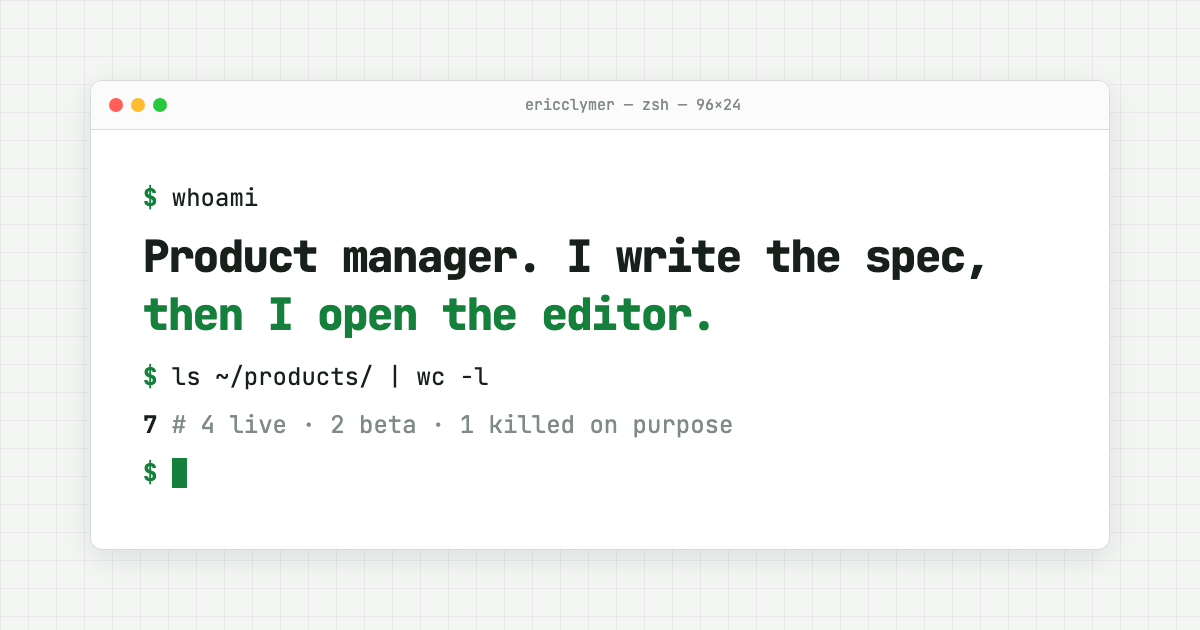
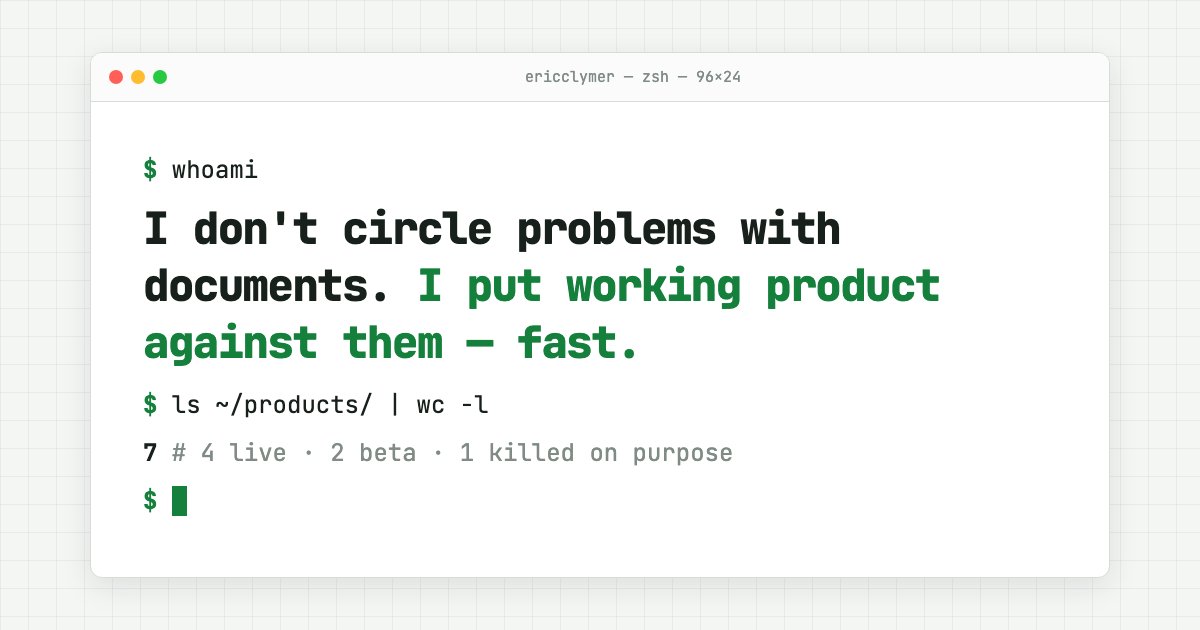
Per-project CRT tints, pic+pane cards, speed-first copy
Every card: one primary visual (mobile for Remy/Hermes/SavvyCash, web
for the rest) beside a goal/stack/outcome DOS pane. CRT backgrounds
tinted per product brand with scanlines, vignette, and bezel. Hero and
man page reframed: answer problems with working product fast, mentor
others to do the same. BlockRate framed around early signal-reading,
not tech sophistication.

diff --git a/index.html b/index.html
@@ -4,9 +4,9 @@
   <meta charset="UTF-8">
   <meta name="viewport" content="width=device-width, initial-scale=1.0">
   <title>Eric Clymer — PM Who Ships</title>
-  <meta name="description" content="Seven products, spec'd and shipped by the same person: iOS apps, Chrome extensions, SaaS. Two with revenue. One killed on purpose.">
+  <meta name="description" content="Seven real products, shipped fast: iOS apps, Chrome extensions, SaaS. Two with revenue. One killed on purpose. Working product beats another meeting.">
   <meta property="og:title" content="Eric Clymer — PM Who Ships">
-  <meta property="og:description" content="Seven products, spec'd and shipped by the same person. Two with revenue. One killed on purpose.">
+  <meta property="og:description" content="Seven real products, shipped fast. Two with revenue. One killed on purpose.">
   <meta property="og:type" content="website">
   <meta property="og:image" content="https://esclyme1981.github.io/PortfolioSite/assets/og-image.png">
   <meta name="twitter:card" content="summary_large_image">
@@ -34,12 +34,12 @@
       <div class="term term-flex">
         <div class="term-text">
           <span class="ln prompt"><span class="typed t1">whoami</span></span>
-          <span class="ln big fade f1">Product manager. I write the spec, <em>then I open the editor.</em></span>
+          <span class="ln big fade f1">I don't circle problems with documents. <em>I put working product against them — fast.</em></span>
           <span class="ln prompt"><span class="typed t2">cat credentials.txt</span></span>
           <span class="ln out fade f2">Group PM @ <strong>SimplePractice</strong> — mobile + rapid prototyping across all of Product · founded <strong>Timebomb</strong> (team of 15, 5 yrs) · shipped a <strong>#1 paid App&nbsp;Store app</strong></span>
           <span class="ln prompt"><span class="typed t3">ls ~/products/ | wc -l</span></span>
           <span class="ln out fade f3"><strong>7</strong></span>
-          <span class="ln out fade f4"><em># 4 live · 2 in beta · 1 killed on purpose</em> — every one spec'd, built, and shipped by the same person.</span>
+          <span class="ln out fade f4"><em># 4 live · 2 in beta · 1 killed on purpose</em> — questions answered with product, not meetings.</span>
           <span class="ln prompt fade f4"><span class="cursor"></span></span>
         </div>
         <figure class="headshot fade f1">
@@ -61,15 +61,21 @@
 
       <!-- 01 send-remy -->
       <a class="proj win reveal" href="projects/send-remy.html">
-        <span class="win-bar"><span class="dots"><i></i><i></i><i></i></span><span class="title"><span class="idx">01</span> · send-remy — iOS + web</span><span class="spacer"></span></span>
-        <span class="collage">
-          <img class="shot-site" src="assets/screenshots/sendremy-tall.jpg" alt="Send Remy landing page — full site" loading="lazy">
-          <img class="shot-phone" src="assets/screenshots/remy-app-01.jpg" alt="Send Remy app — agent debrief" loading="lazy">
+        <span class="win-bar"><span class="dots"><i></i><i></i><i></i></span><span class="title"><span class="idx">01</span> · send-remy — iOS</span><span class="spacer"></span></span>
+        <span class="collage phone-primary crt-rust">
+          <img class="shot-phone" src="assets/screenshots/remy-app-01.jpg" alt="Send Remy app — brief your Remy" loading="lazy">
+          <span class="pane">
+            <span class="ln prompt">remy --brief</span>
+            <span class="ln cmt"># goal: kill the blank-slate first chat</span>
+            <span class="ln ok">stack: swiftui · supabase · claude api</span>
+            <span class="ln ok">agents run the first 20 messages</span>
+            <span class="ln ok">debrief: score · highlights · tensions</span>
+            <span class="ln hl">→ live on the app store · revenue</span>
+          </span>
         </span>
         <span class="proj-meta">
           <span class="name-row"><h3>Send Remy</h3><span class="tag tag-live">LIVE · REVENUE</span></span>
           <p class="hook">Your AI agent runs the first twenty messages. You only meet the ones worth meeting.</p>
-          <span class="flags">--swiftui --supabase --claude-api --app-store</span>
           <span class="open">open sendremy.com</span>
         </span>
       </a>
@@ -77,14 +83,20 @@
       <!-- 02 hermes -->
       <a class="proj win reveal" href="projects/hermes.html">
         <span class="win-bar"><span class="dots"><i></i><i></i><i></i></span><span class="title"><span class="idx">02</span> · hermes — custom iOS client</span><span class="spacer"></span></span>
-        <span class="collage phones-only">
-          <img class="shot-phone second" src="assets/screenshots/hermes-triage.jpg" alt="Hermes — AI email triage" loading="lazy">
+        <span class="collage phone-primary">
           <img class="shot-phone" src="assets/screenshots/hermes-briefing.jpg" alt="Hermes — daily briefing" loading="lazy">
+          <span class="pane">
+            <span class="ln prompt">hermes --morning</span>
+            <span class="ln cmt"># goal: run 7 products from a pocket</span>
+            <span class="ln ok">stack: swift 6 · gmail api · agents</span>
+            <span class="ln ok">8am briefing · triage · monitoring</span>
+            <span class="ln ok">agents draft, I approve</span>
+            <span class="ln hl">→ private beta · my daily driver</span>
+          </span>
         </span>
         <span class="proj-meta">
           <span class="name-row"><h3>Custom Hermes iOS Client</h3><span class="tag tag-beta">BETA</span></span>
           <p class="hook">One iOS client for my whole agent stack — daily briefing, email triage, product monitoring.</p>
-          <span class="flags">--swift6 --gmail-api --agents --supabase</span>
           <span class="open">./hermes --briefing</span>
         </span>
       </a>
@@ -92,14 +104,20 @@
       <!-- 03 vibecaddy -->
       <a class="proj win reveal" href="projects/vibecaddy.html">
         <span class="win-bar"><span class="dots"><i></i><i></i><i></i></span><span class="title"><span class="idx">03</span> · vibecaddy — chrome extension</span><span class="spacer"></span></span>
-        <span class="collage">
+        <span class="collage crt-green">
           <img class="shot-site" src="assets/screenshots/vibecaddy-tall.jpg" alt="VibeCaddy landing page — full site" loading="lazy">
-          <img class="shot-phone" src="assets/screenshots/vibecaddy-mobile.jpg" alt="VibeCaddy mobile" loading="lazy">
+          <span class="pane">
+            <span class="ln prompt">vibecaddy --inject</span>
+            <span class="ln cmt"># goal: never re-explain your project</span>
+            <span class="ln ok">stack: chrome ext · supabase · claude</span>
+            <span class="ln ok">context injected into every prompt</span>
+            <span class="ln ok">nightly eval agent self-tunes</span>
+            <span class="ln hl">→ live in the chrome web store</span>
+          </span>
         </span>
         <span class="proj-meta">
           <span class="name-row"><h3>VibeCaddy</h3><span class="tag tag-live">LIVE</span></span>
           <p class="hook">Injects your project's context into every AI prompt. Stop re-explaining your stack to ChatGPT.</p>
-          <span class="flags">--chrome-ext --supabase --claude-api --eval-agent</span>
           <span class="open">open vibecaddy.ai</span>
         </span>
       </a>
@@ -107,14 +125,20 @@
       <!-- 04 vibecs -->
       <a class="proj win reveal" href="projects/vibecs.html">
         <span class="win-bar"><span class="dots"><i></i><i></i><i></i></span><span class="title"><span class="idx">04</span> · vibecs — web saas</span><span class="spacer"></span></span>
-        <span class="collage">
+        <span class="collage crt-orange">
           <img class="shot-site" src="assets/screenshots/vibecs-tall.jpg" alt="VibeCS landing page — full site" loading="lazy">
-          <img class="shot-phone" src="assets/screenshots/vibecs-mobile.jpg" alt="VibeCS mobile" loading="lazy">
+          <span class="pane">
+            <span class="ln prompt">vibecs --deploy</span>
+            <span class="ln cmt"># goal: support agent, zero setup</span>
+            <span class="ln ok">stack: crawler · edge fns · claude</span>
+            <span class="ln ok">paste url → live in 3 minutes</span>
+            <span class="ln ok">closed-loop: can't hallucinate</span>
+            <span class="ln hl">→ live · paying customers</span>
+          </span>
         </span>
         <span class="proj-meta">
           <span class="name-row"><h3>VibeCS</h3><span class="tag tag-live">LIVE · REVENUE</span></span>
           <p class="hook">Paste your URL → AI support agent live in 3 minutes. Closed-loop, so it can't hallucinate. Paying customers.</p>
-          <span class="flags">--crawler --edge-functions --claude-api</span>
           <span class="open">open cs-vibe.com</span>
         </span>
       </a>
@@ -122,22 +146,20 @@
       <!-- 05 blockrate -->
       <a class="proj win reveal" href="projects/blockrate.html">
         <span class="win-bar"><span class="dots"><i></i><i></i><i></i></span><span class="title"><span class="idx">05</span> · blockrate — post-mortem</span><span class="spacer"></span></span>
-        <span class="collage">
+        <span class="collage crt-pine">
           <img class="shot-site" src="assets/screenshots/blockrate-web.jpg" alt="BlockRate landing page — group-buying for home services" loading="lazy">
           <span class="pane">
-            <span class="ln cmt"># blockrate — the post-mortem</span>
-            <span class="ln ok">47 neighborhoods · paying customer</span>
-            <span class="ln ok">stripe connect · tiered repricing</span>
-            <span class="ln err"><span class="hl">wrong customer.</span> hunters churn.</span>
-            <span class="ln del">- kill --reason "bad business"</span>
-            <span class="ln add">+ lesson applied everywhere after</span>
-            <span class="ln cmt">process terminated — exit 137</span>
+            <span class="ln prompt">blockrate --autopsy</span>
+            <span class="ln cmt"># goal: group-buy home services</span>
+            <span class="ln ok">stripe connect · supabase</span>
+            <span class="ln ok">47 hoods · real revenue</span>
+            <span class="ln err">wrong customer — read early</span>
+            <span class="ln hl">→ killed on purpose · 137</span>
           </span>
         </span>
         <span class="proj-meta">
           <span class="name-row"><h3>BlockRate</h3><span class="tag tag-killed">KILLED</span><span class="tag tag-live">REVENUE</span></span>
-          <p class="hook">My most sophisticated build. I shut it down anyway — the customer was wrong, and no amount of code fixes that.</p>
-          <span class="flags">--stripe-connect --supabase --13-edge-functions</span>
+          <p class="hook">Real marketplace, real revenue — still the wrong business. Reading that signal in months, not years, is the skill.</p>
           <span class="open">cat post-mortem.md</span>
         </span>
       </a>
@@ -145,22 +167,20 @@
       <!-- 06 savvycash -->
       <a class="proj win reveal" href="projects/savvycash.html">
         <span class="win-bar"><span class="dots"><i></i><i></i><i></i></span><span class="title"><span class="idx">06</span> · savvycash — iOS fintech</span><span class="spacer"></span></span>
-        <span class="collage">
-          <img class="shot-site" src="assets/screenshots/savvycash-web.jpg" alt="SavvyCash — Savi recommends a sweep to savings" loading="lazy">
+        <span class="collage phone-primary crt-azure">
+          <img class="shot-phone" src="assets/screenshots/savvycash-web.jpg" alt="SavvyCash — Savi recommends a sweep to savings" loading="lazy">
           <span class="pane">
-            <span class="ln prompt">savi engine --scan</span>
-            <span class="ln ok">plaid linked · production</span>
-            <span class="ln ok">21 patterns · 12 bills predicted</span>
-            <span class="ln hl">→ sweep $35,631.50 → savings</span>
-            <span class="ln hl">→ 4.4% APY instead of 0%</span>
-            <span class="ln cmt"># proposes only. never moves</span>
-            <span class="ln cmt"># money itself. your trigger.</span>
+            <span class="ln prompt">savi --propose</span>
+            <span class="ln cmt"># goal: wake up idle cash</span>
+            <span class="ln ok">swiftui · plaid · edge fns</span>
+            <span class="ln ok">21 patterns · 12 bills</span>
+            <span class="ln ok">you hold the only trigger</span>
+            <span class="ln hl">→ beta · unreleased</span>
           </span>
         </span>
         <span class="proj-meta">
           <span class="name-row"><h3>SavvyCash</h3><span class="tag tag-beta">BETA</span></span>
           <p class="hook">Finds the cash sleeping in your checking account and proposes the sweep. You hold the only trigger.</p>
-          <span class="flags">--swiftui --plaid --edge-functions</span>
           <span class="open">./savvycash --propose</span>
         </span>
       </a>
@@ -168,14 +188,20 @@
       <!-- 07 norwalk -->
       <a class="proj win reveal" href="projects/norwalk-rental.html">
         <span class="win-bar"><span class="dots"><i></i><i></i><i></i></span><span class="title"><span class="idx">07</span> · norwalk-lane — direct booking</span><span class="spacer"></span></span>
-        <span class="collage">
+        <span class="collage crt-amber">
           <img class="shot-site" src="assets/screenshots/norwalklane-tall.jpg" alt="Norwalk Lane booking site — full site" loading="lazy">
-          <img class="shot-phone" src="assets/screenshots/norwalklane-mobile.jpg" alt="Norwalk Lane mobile" loading="lazy">
+          <span class="pane">
+            <span class="ln prompt">norwalk --book-direct</span>
+            <span class="ln cmt"># goal: own the guest relationship</span>
+            <span class="ln ok">stack: static site · pro photography</span>
+            <span class="ln ok">no platform fee, no middleman</span>
+            <span class="ln ok">returning guests email me</span>
+            <span class="ln hl">→ live · taking bookings</span>
+          </span>
         </span>
         <span class="proj-meta">
           <span class="name-row"><h3>Norwalk Lane</h3><span class="tag tag-live">LIVE</span></span>
           <p class="hook">Direct-booking site for one premium rental. The platform middleman is a fee, not a feature.</p>
-          <span class="flags">--static --direct-booking --pro-photography</span>
           <span class="open">open norwalklane.com</span>
         </span>
       </a>
@@ -191,12 +217,12 @@
       <div class="win-bar"><span class="dots"><i></i><i></i><i></i></span><span class="title">ERIC(1) — General Commands Manual</span><span class="spacer"></span></div>
       <div class="man">
         <h3>NAME</h3>
-        <p><strong>eric</strong> — product manager who ships his own specs</p>
+        <p><strong>eric</strong> — product manager who answers questions with working product</p>
         <h3>SYNOPSIS</h3>
-        <p class="refs">eric [--spec] [--build] [--ship] [--kill-when-wrong]</p>
+        <p class="refs">eric [--prototype] [--ship-fast] [--mentor] [--kill-when-wrong]</p>
         <h3>DESCRIPTION</h3>
-        <p>Most PMs hand off. I don't. Every product in this directory — iOS apps, a Chrome extension, SaaS — was spec'd, built, and shipped by the same pair of hands. The through-line is one opinion held strongly: <code>software should show up already knowing the context</code>. Agents that do the getting-to-know-you before a first date. A support bot whose knowledge base is your own website. Prompts that arrive pre-loaded with your stack. No blank slates, anywhere.</p>
-        <p>The flag I'm proudest of is <code>--kill-when-wrong</code>: BlockRate was the best engineering in this list and the worst business. It's dead because I read the data and pulled the plug. That's a PM skill you can't fake in a slide deck.</p>
+        <p>Documents describe problems. Product answers them. Everything in this directory exists because building the real thing quickly is the fastest way to find out what's true — about the user, the market, and the idea. It's the same job during the day: at SimplePractice I lead mobile and rapid prototyping across all of Product, where most of the work is getting real product in front of real people in days — and <strong>mentoring PMs and teams to do the same</strong>: reach for a build, not another meeting.</p>
+        <p>The flag that took longest to earn is <code>--kill-when-wrong</code>. BlockRate wasn't precious technology — it was a working marketplace with real revenue that was wrong underneath: wrong customer, wrong sector. Recognizing "not right" in months instead of years, and acting on it, is what experience actually looks like. Speed matters on the way out, too.</p>
         <h3>HISTORY</h3>
         <p>Group Product Manager at SimplePractice — leading both mobile and rapid prototyping across all of Product. Founded Timebomb — a 15-person mobile social startup, 5 years. Shipped a #1 paid App Store app internationally.</p>
         <h3>SEE ALSO</h3>

diff --git a/css/style.css b/css/style.css
@@ -281,14 +281,18 @@ code, .mono { font-family: var(--mono); }
 .proj:hover { transform: translateY(-3px); box-shadow: var(--shadow-lift); }
 .proj .win-bar .title .idx { color: var(--green); font-weight: 700; }
 
-/* collage area — full site + mobile, side by side, no overlap.
-   Background is a DOS-blue CRT: scanlines + phosphor vignette, no grid. */
+/* collage area — one primary visual + a DOS pane, side by side.
+   Background is a retro CRT tinted per project: phosphor glow,
+   scanlines, corner vignette, and a bezel inset. */
 .collage {
+  --crt-hi: #1a3ec4;   /* phosphor bloom (top) */
+  --crt-mid: #10289c;  /* tube body */
+  --crt-lo: #081a70;   /* corners / depth */
   position: relative;
   aspect-ratio: 16 / 9.6;
   background:
-    repeating-linear-gradient(0deg, rgba(255,255,255,0.055) 0 1px, transparent 1px 3px),
-    radial-gradient(120% 90% at 50% 8%, #1a3ec4 0%, #10289c 48%, #081a70 100%);
+    repeating-linear-gradient(0deg, rgba(255,255,255,0.06) 0 1px, transparent 1px 3px),
+    radial-gradient(115% 105% at 50% 0%, var(--crt-hi) 0%, var(--crt-mid) 46%, var(--crt-lo) 100%);
   overflow: hidden;
   border-bottom: 1px solid var(--border);
   display: flex;
@@ -297,15 +301,33 @@ code, .mono { font-family: var(--mono); }
   gap: clamp(0.8rem, 3%, 1.4rem);
   padding: 4.5% 4%;
 }
-/* faint CRT glow along the top edge */
+/* CRT glass: top glow */
 .collage::before {
   content: '';
   position: absolute;
   inset: 0 0 auto 0;
-  height: 18%;
-  background: linear-gradient(rgba(255,255,255,0.10), transparent);
+  height: 20%;
+  background: linear-gradient(rgba(255,255,255,0.12), transparent);
   pointer-events: none;
 }
+/* CRT tube: corner vignette + bezel inset shadow */
+.collage::after {
+  content: '';
+  position: absolute;
+  inset: 0;
+  background: radial-gradient(140% 125% at 50% 45%, transparent 58%, rgba(0,0,0,0.38) 100%);
+  box-shadow: inset 0 0 22px rgba(0,0,0,0.45);
+  pointer-events: none;
+}
+.collage > * { position: relative; z-index: 1; }
+
+/* per-project phosphor tints */
+.crt-rust   { --crt-hi: #e05c2b; --crt-mid: #a63c15; --crt-lo: #571c07; }  /* send remy */
+.crt-green  { --crt-hi: #1ba452; --crt-mid: #0d7132; --crt-lo: #063a19; }  /* vibecaddy */
+.crt-orange { --crt-hi: #ff7a1a; --crt-mid: #c2410c; --crt-lo: #6b1f03; }  /* vibecs */
+.crt-pine   { --crt-hi: #2c7a4b; --crt-mid: #17472e; --crt-lo: #082416; }  /* blockrate */
+.crt-azure  { --crt-hi: #3f86f8; --crt-mid: #1d4ed8; --crt-lo: #12277a; }  /* savvycash */
+.crt-amber  { --crt-hi: #c98434; --crt-mid: #8a5215; --crt-lo: #452806; }  /* norwalk */
 /* the zoomed-out full page — whole capture visible, scaled by height.
    max-width + cover keeps landscape shots from starving their neighbor. */
 .collage .shot-site {
@@ -330,10 +352,15 @@ code, .mono { font-family: var(--mono); }
 .proj:hover .collage .shot-phone { transform: rotate(0deg) translateY(-3px); }
 .collage .shot-phone.second { transform: rotate(-1.8deg); }
 .proj:hover .collage .shot-phone.second { transform: rotate(0deg) translateY(-3px); }
-/* two phones, no desktop */
-.collage.phones-only .shot-phone { height: 92%; }
+/* single primary phone beside a pane — straight, dominant */
+.collage.phone-primary .shot-phone {
+  height: 94%;
+  transform: none;
+}
+.proj:hover .collage.phone-primary .shot-phone { transform: translateY(-3px); }
 
-/* terminal-pane collage — DOS screen text straight on the blue */
+/* terminal-pane — DOS screen text straight on the tube.
+   Neutral phosphor palette; readable on every tint. */
 .collage .pane {
   flex: 1;
   align-self: center;
@@ -341,9 +368,9 @@ code, .mono { font-family: var(--mono); }
   padding: 0.4rem 0.2rem;
   font-family: var(--mono);
   font-size: clamp(0.60rem, 1.35vw, 0.72rem);
-  line-height: 1.9;
-  color: #c9d4ff;
-  text-shadow: 0 0 6px rgba(120, 150, 255, 0.35);
+  line-height: 1.95;
+  color: rgba(255, 255, 255, 0.88);
+  text-shadow: 0 0 7px rgba(255, 255, 255, 0.28);
 }
 .pane .ln {
   display: block;
@@ -351,13 +378,13 @@ code, .mono { font-family: var(--mono); }
   overflow: hidden;
   text-overflow: ellipsis;
 }
-.pane .ok::before   { content: '✓ '; color: #7dff9e; font-weight: 700; }
-.pane .err::before  { content: '✗ '; color: #ff8f8f; font-weight: 700; }
-.pane .add          { color: #9dffb4; }
-.pane .del          { color: #ffa3a3; }
-.pane .cmt          { color: #7f93e6; }
+.pane .ok::before   { content: '✓ '; color: #a5ffbd; font-weight: 700; }
+.pane .err::before  { content: '✗ '; color: #ffc2c2; font-weight: 700; }
+.pane .add          { color: #b8ffca; }
+.pane .del          { color: #ffc9c9; }
+.pane .cmt          { color: rgba(255, 255, 255, 0.55); }
 .pane .hl           { color: #ffffff; font-weight: 700; }
-.pane .prompt::before { content: '$ '; color: #7dff9e; font-weight: 700; }
+.pane .prompt::before { content: '$ '; color: #a5ffbd; font-weight: 700; }
 
 /* project meta */
 .proj-meta { padding: 0.9rem 1rem 1rem; display: grid; gap: 0.45rem; background: var(--surface); }

diff --git a/projects/blockrate.html b/projects/blockrate.html
@@ -4,9 +4,9 @@
   <meta charset="UTF-8">
   <meta name="viewport" content="width=device-width, initial-scale=1.0">
   <title>blockrate — Eric Clymer</title>
-  <meta name="description" content="A group-buying marketplace for home services in Austin. My most sophisticated build — killed on purpose. The post-mortem.">
+  <meta name="description" content="A group-buying marketplace for home services in Austin. Real revenue, wrong business — killed on purpose, fast. The post-mortem.">
   <meta property="og:title" content="blockrate — Eric Clymer">
-  <meta property="og:description" content="My most sophisticated build. Killed on purpose. The post-mortem.">
+  <meta property="og:description" content="Real revenue, wrong business. Killed on purpose, fast. The post-mortem.">
   <meta property="og:type" content="article">
   <meta property="og:image" content="https://esclyme1981.github.io/PortfolioSite/assets/og-image.png">
   <link rel="icon" type="image/svg+xml" href="../favicon.svg">
@@ -90,7 +90,7 @@
       <li><strong>No sector edge.</strong> I don't know home services from the inside. Every provider-side judgment was secondhand.</li>
       <li><strong>The go-between trap.</strong> A two-sided marketplace makes both sides' failures yours: provider no-shows became my refunds; customer churn became everyone else's price jump.</li>
     </ul>
-    <div class="callout red">Sophistication of build ≠ viability of business. Building was never the bottleneck — choosing the right problem and customer is.
+    <div class="callout red">A working product with revenue can still be the wrong business. Reading that signal in months — not years — is what experience looks like.
       <span class="src">the one-line lesson that reshaped everything after it</span>
     </div>
   </section>
@@ -108,7 +108,7 @@
   <section class="case-sec reveal">
     <h2>lessons</h2>
     <div class="prose">
-      <p>One paying customer doesn't validate a business if the <em>category</em> of customer is wrong. BlockRate is why everything after it targets builders and operators paying for leverage — and why a well-reasoned shutdown counts as a shipped outcome in this directory. Killing your best engineering because the business under it is wrong: that's the judgment I'd hire a PM for.</p>
+      <p>One paying customer doesn't validate a business if the <em>category</em> of customer is wrong. BlockRate is why everything after it targets builders and operators paying for leverage — and why a fast, well-reasoned shutdown counts as a shipped outcome in this directory. The tech wasn't the point and never is: the point is how quickly you recognize "not right" and act on it. That speed is the judgment I'd hire a PM for.</p>
     </div>
   </section>
 